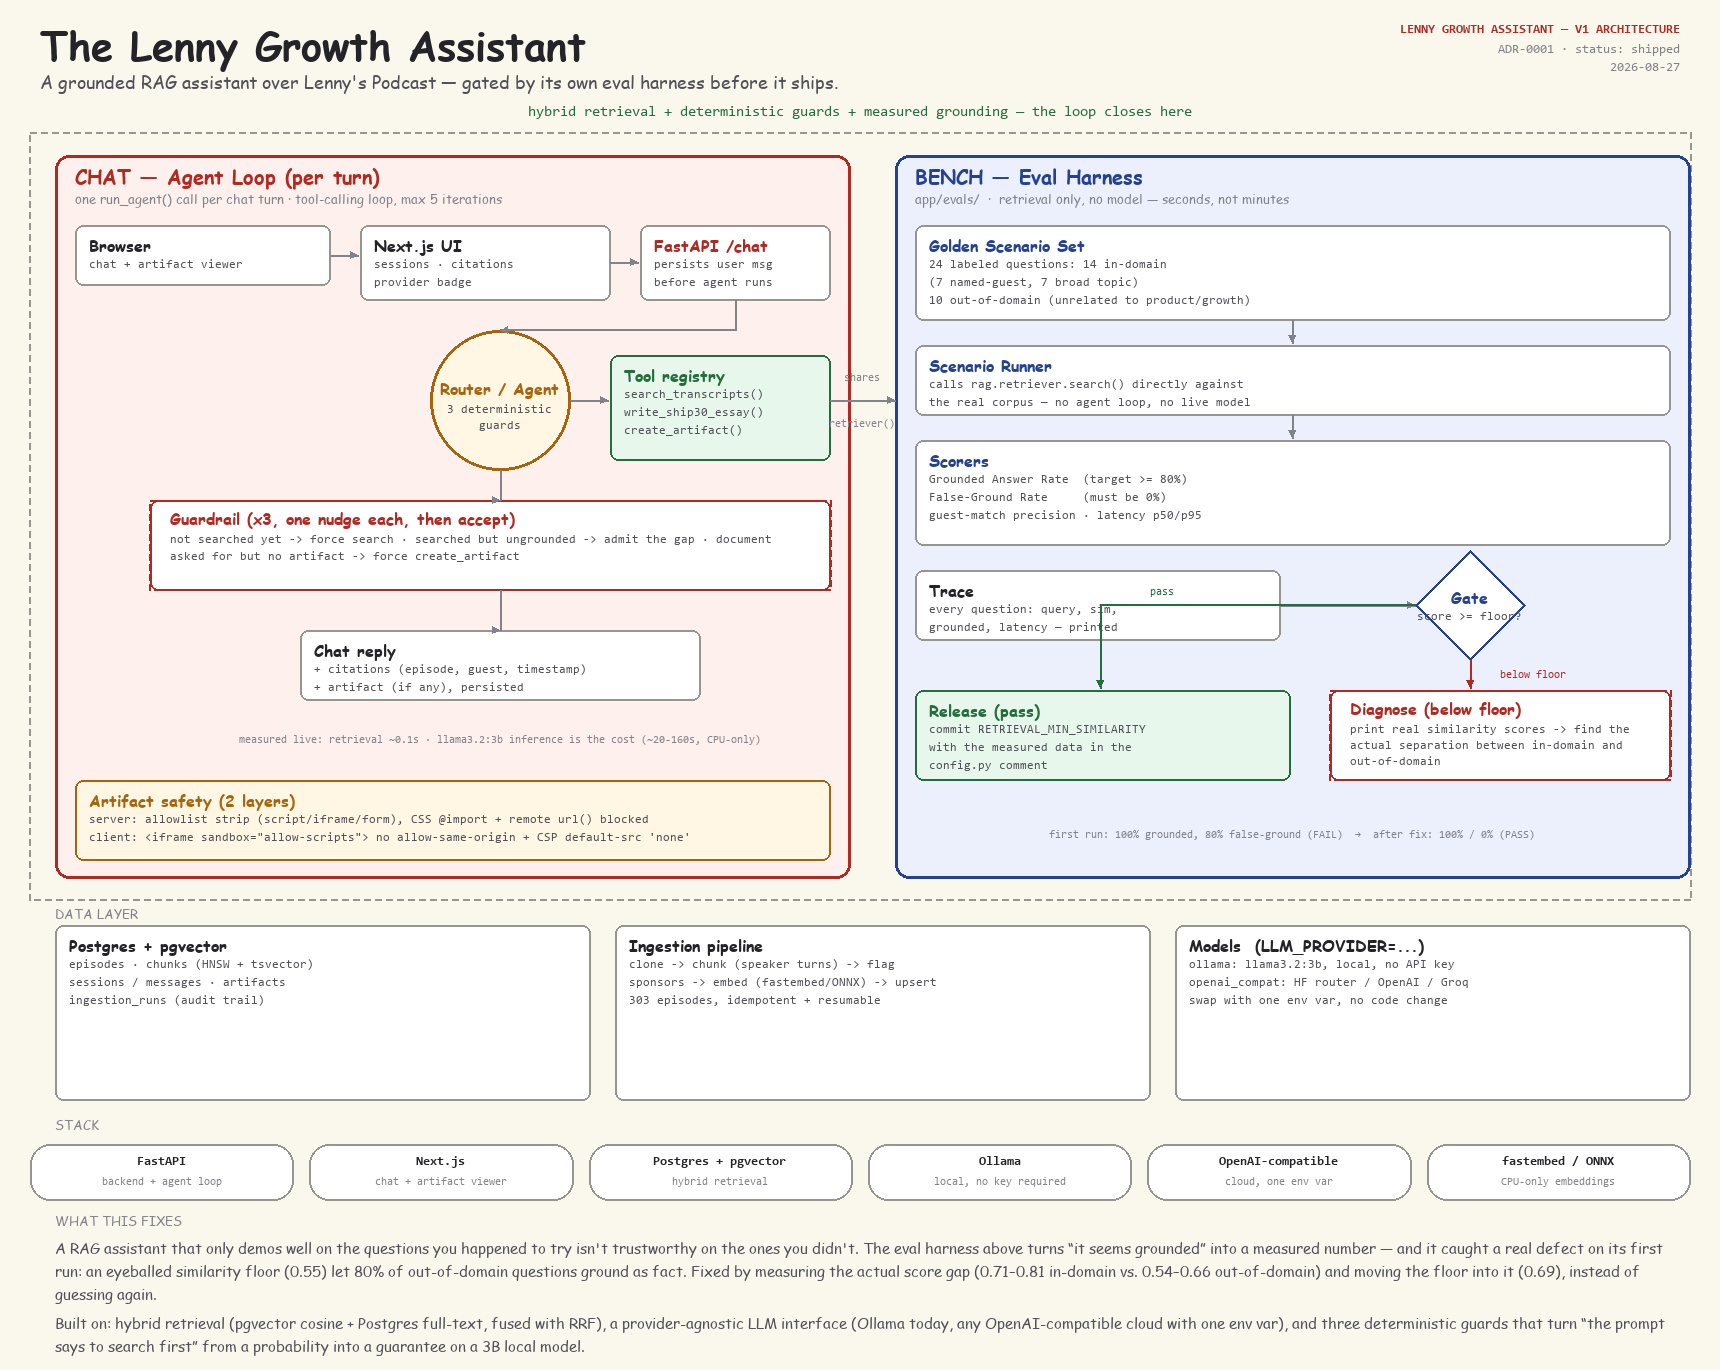
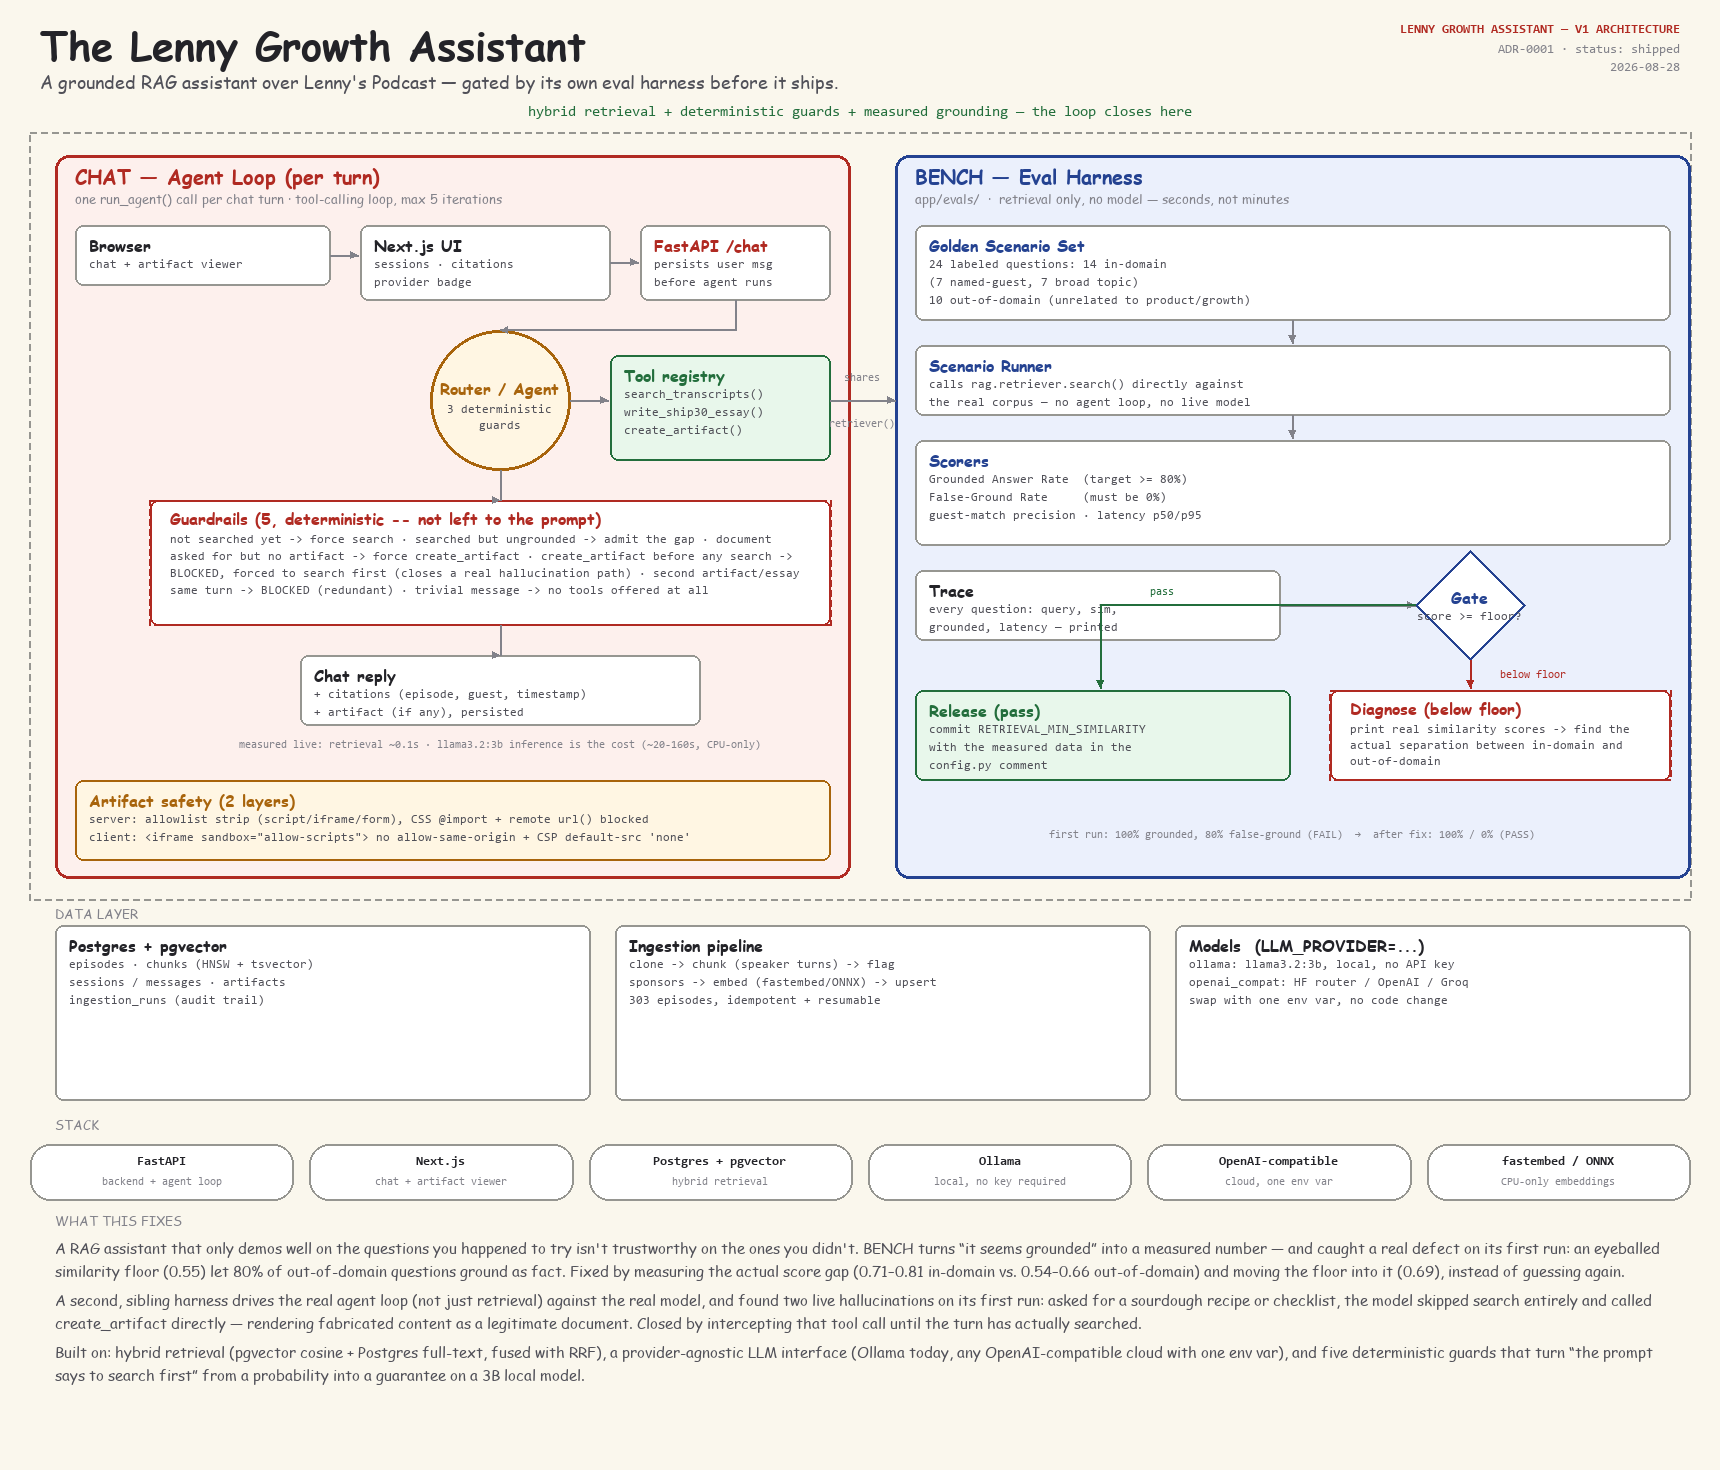
Swap the README's architecture diagram to the harness/bench-style version
Replaces docs/architecture.png with docs/architecture_v2.png at the top of
the README. Updated the diagram itself first: the guardrail box now lists
all 5 deterministic guards (was 3, drawn before the agent-harness fixes),
and the "what this fixes" narrative now covers both harnesses -- the
retrieval eval's similarity-floor defect and the agent harness's two live
hallucinations -- instead of only the first.

Changed region(s): [[0.0308, 0.0307, 0.986, 1.0], [0.9244, 0.0, 0.986, 0.0613], [0.832, 0.0, 0.8936, 0.0613]]

diff --git a/backend/scripts/render_architecture_v2.py b/backend/scripts/render_architecture_v2.py
@@ -16,7 +16,7 @@ import os
 
 from PIL import Image, ImageDraw, ImageFont
 
-W, H = 1720, 1370
+W, H = 1720, 1470
 
 BG = (250, 247, 237)  # warm cream, matching the reference
 INK = (35, 35, 40)
@@ -162,7 +162,7 @@ def main():
     )
     ctext(d, (W - 40, 30), "LENNY GROWTH ASSISTANT \u2014 V1 ARCHITECTURE", F_HDR_TAG, RED, anchor="rm")
     ctext(d, (W - 40, 50), "ADR-0001 \u00b7 status: shipped", F_META, INK_MUTED, anchor="rm")
-    ctext(d, (W - 40, 68), "2026-08-27", F_META, INK_MUTED, anchor="rm")
+    ctext(d, (W - 40, 68), "2026-08-28", F_META, INK_MUTED, anchor="rm")
 
     ctext(
         d, (W / 2, 112),
@@ -210,28 +210,30 @@ def main():
     )
     arrow(d, (570, 400), (608, 400))
 
-    guardrail = (150, 500, 830, 590)
+    guardrail = (150, 500, 830, 625)
     rrect(d, guardrail, 8, fill=WHITE, outline=RED, width=2)
     _dashed_rect_outline(d, guardrail, RED, 2, dash_len=6, gap_len=4)
-    ctext(d, (170, 518), "Guardrail (x3, one nudge each, then accept)", F_BOX_TITLE, RED, anchor="lm")
+    ctext(d, (170, 518), "Guardrails (5, deterministic -- not left to the prompt)", F_BOX_TITLE, RED, anchor="lm")
     wrap_and_draw_left(
         d, (170, 540),
         "not searched yet -> force search  \u00b7  searched but ungrounded -> admit the gap  \u00b7  "
-        "document asked for but no artifact -> force create_artifact",
+        "document asked for but no artifact -> force create_artifact  \u00b7  create_artifact before any "
+        "search -> BLOCKED, forced to search first (closes a real hallucination path)  \u00b7  second "
+        "artifact/essay same turn -> BLOCKED (redundant)  \u00b7  trivial message -> no tools offered at all",
         F_BOX_MONO, INK_SOFT, 640, 17,
     )
     elbow(d, (500, 470), (500, 500), via="v")
 
-    reply = (300, 630, 700, 700)
+    reply = (300, 655, 700, 725)
     note_box(
         d, reply, "Chat reply",
         ["+ citations (episode, guest, timestamp)", "+ artifact (if any), persisted"],
         INK, fill=WHITE,
     )
-    elbow(d, (500, 590), (500, 630), via="v")
+    elbow(d, (500, 625), (500, 655), via="v")
 
     ctext(
-        d, (500, 740),
+        d, (500, 745),
         "measured live: retrieval ~0.1s \u00b7 llama3.2:3b inference is the cost (~20-160s, CPU-only)",
         F_SMALL_MONO, INK_MUTED, anchor="mm",
     )
@@ -401,16 +403,24 @@ def main():
     fix_y = wrap_and_draw_left(
         d, (55, fix_y),
         "A RAG assistant that only demos well on the questions you happened to try isn't trustworthy on the "
-        "ones you didn't. The eval harness above turns \u201cit seems grounded\u201d into a measured number \u2014 and it "
-        "caught a real defect on its first run: an eyeballed similarity floor (0.55) let 80% of out-of-domain "
-        "questions ground as fact. Fixed by measuring the actual score gap (0.71\u20130.81 in-domain vs. "
-        "0.54\u20130.66 out-of-domain) and moving the floor into it (0.69), instead of guessing again.",
+        "ones you didn't. BENCH turns \u201cit seems grounded\u201d into a measured number \u2014 and caught a real "
+        "defect on its first run: an eyeballed similarity floor (0.55) let 80% of out-of-domain questions "
+        "ground as fact. Fixed by measuring the actual score gap (0.71\u20130.81 in-domain vs. 0.54\u20130.66 "
+        "out-of-domain) and moving the floor into it (0.69), instead of guessing again.",
+        F_BODY, INK_SOFT, W - 110, 23,
+    )
+    fix_y = wrap_and_draw_left(
+        d, (55, fix_y + 6),
+        "A second, sibling harness drives the real agent loop (not just retrieval) against the real model, "
+        "and found two live hallucinations on its first run: asked for a sourdough recipe or checklist, the "
+        "model skipped search entirely and called create_artifact directly \u2014 rendering fabricated content "
+        "as a legitimate document. Closed by intercepting that tool call until the turn has actually searched.",
         F_BODY, INK_SOFT, W - 110, 23,
     )
     wrap_and_draw_left(
         d, (55, fix_y + 6),
         "Built on: hybrid retrieval (pgvector cosine + Postgres full-text, fused with RRF), a provider-agnostic "
-        "LLM interface (Ollama today, any OpenAI-compatible cloud with one env var), and three deterministic "
+        "LLM interface (Ollama today, any OpenAI-compatible cloud with one env var), and five deterministic "
         "guards that turn \u201cthe prompt says to search first\u201d from a probability into a guarantee on a 3B local model.",
         F_BODY, INK_SOFT, W - 110, 23,
     )

diff --git a/README.md b/README.md
@@ -1,6 +1,6 @@
 # The Lenny Growth Assistant
 
-![Architecture diagram](docs/architecture.png)
+![Architecture diagram](docs/architecture_v2.png)
 
 A grounded conversational assistant over [Lenny's Podcast](https://www.lennyspodcast.com/)
 transcripts. Ask product and growth questions and get answers cited back to the
